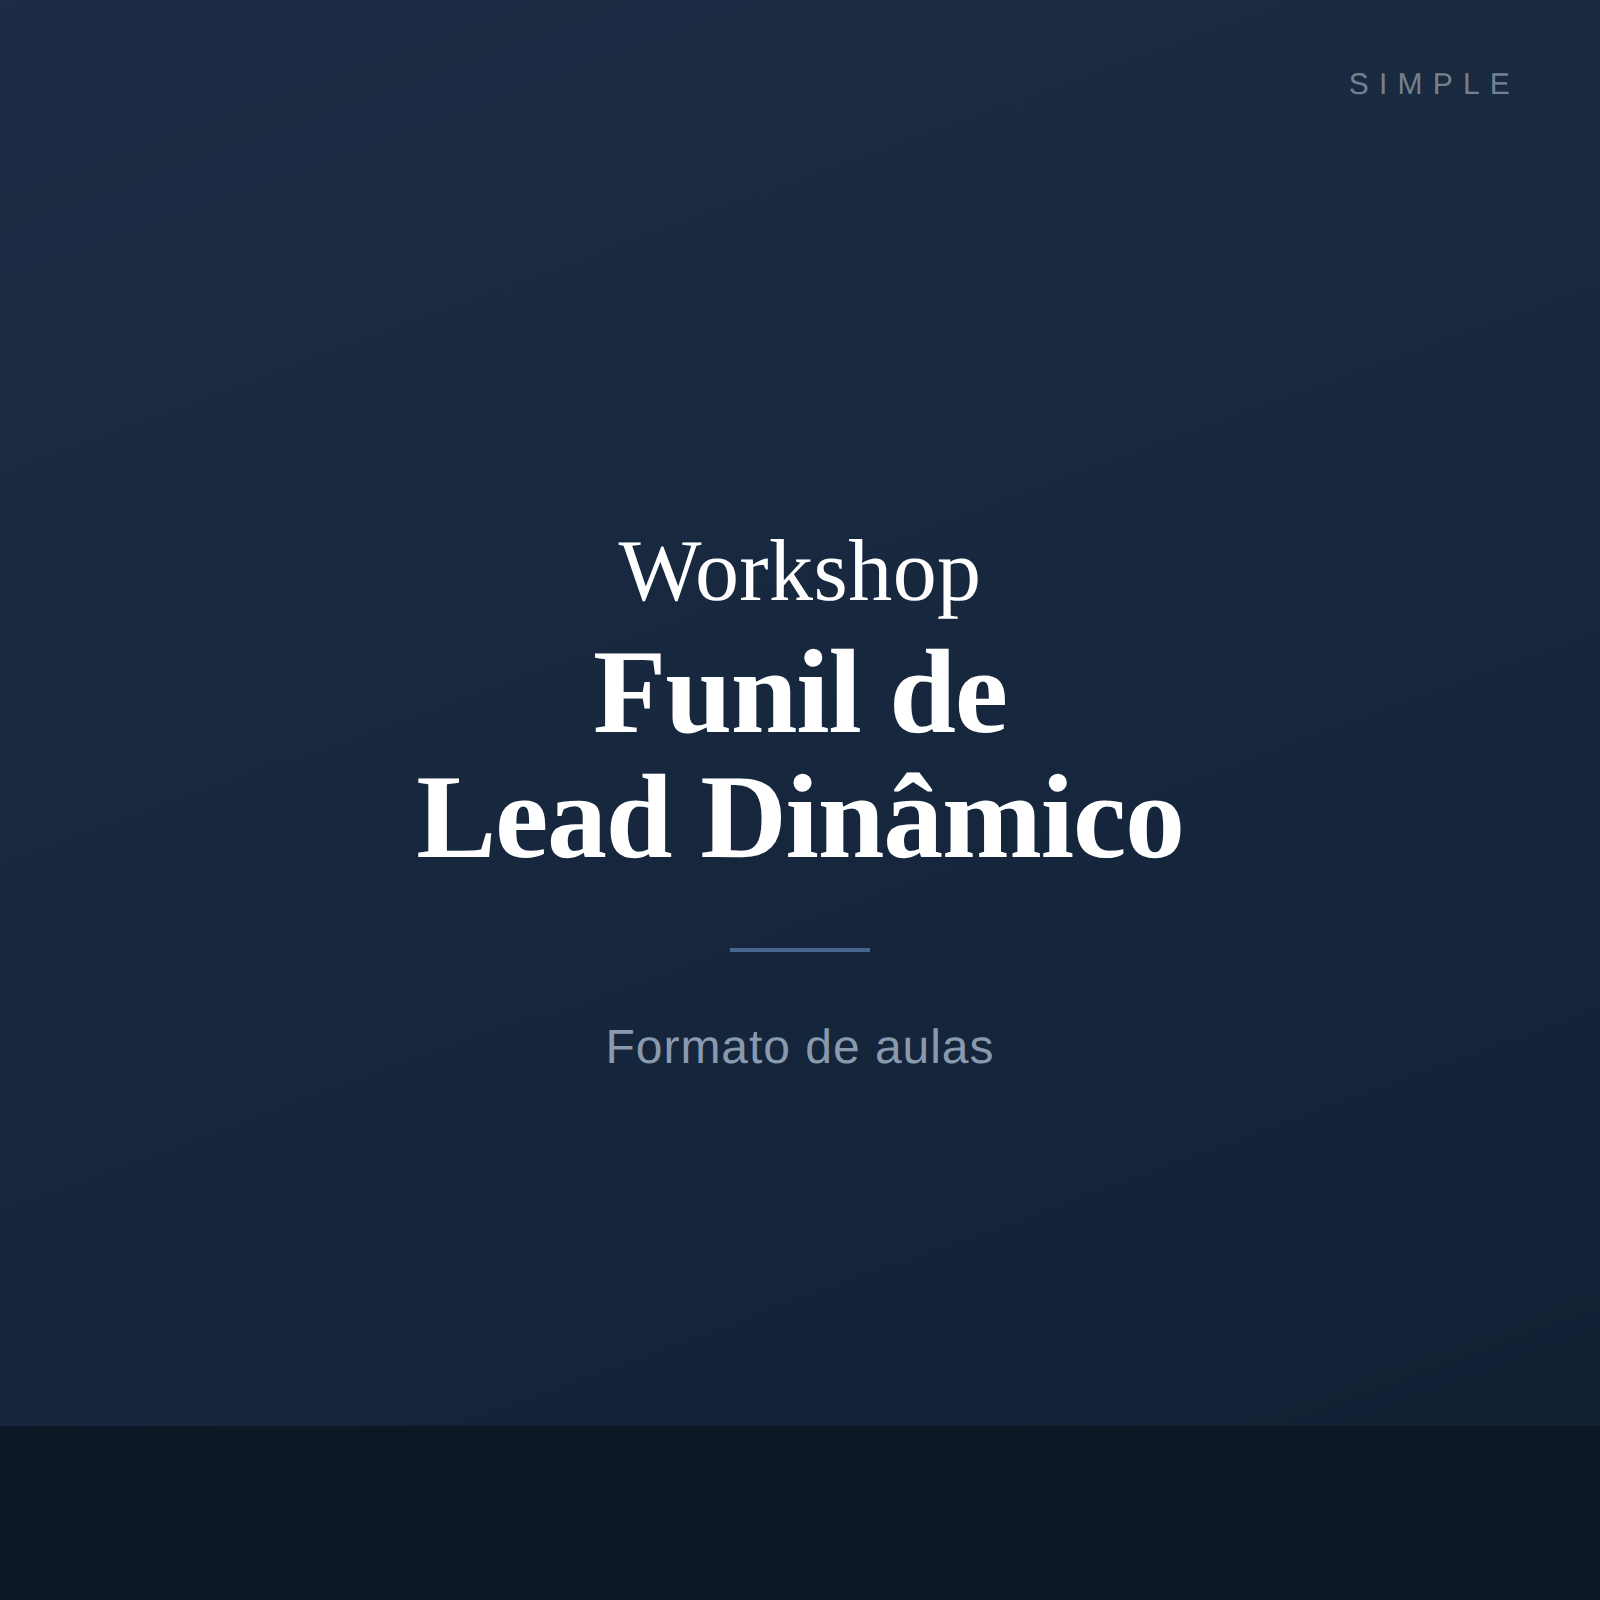
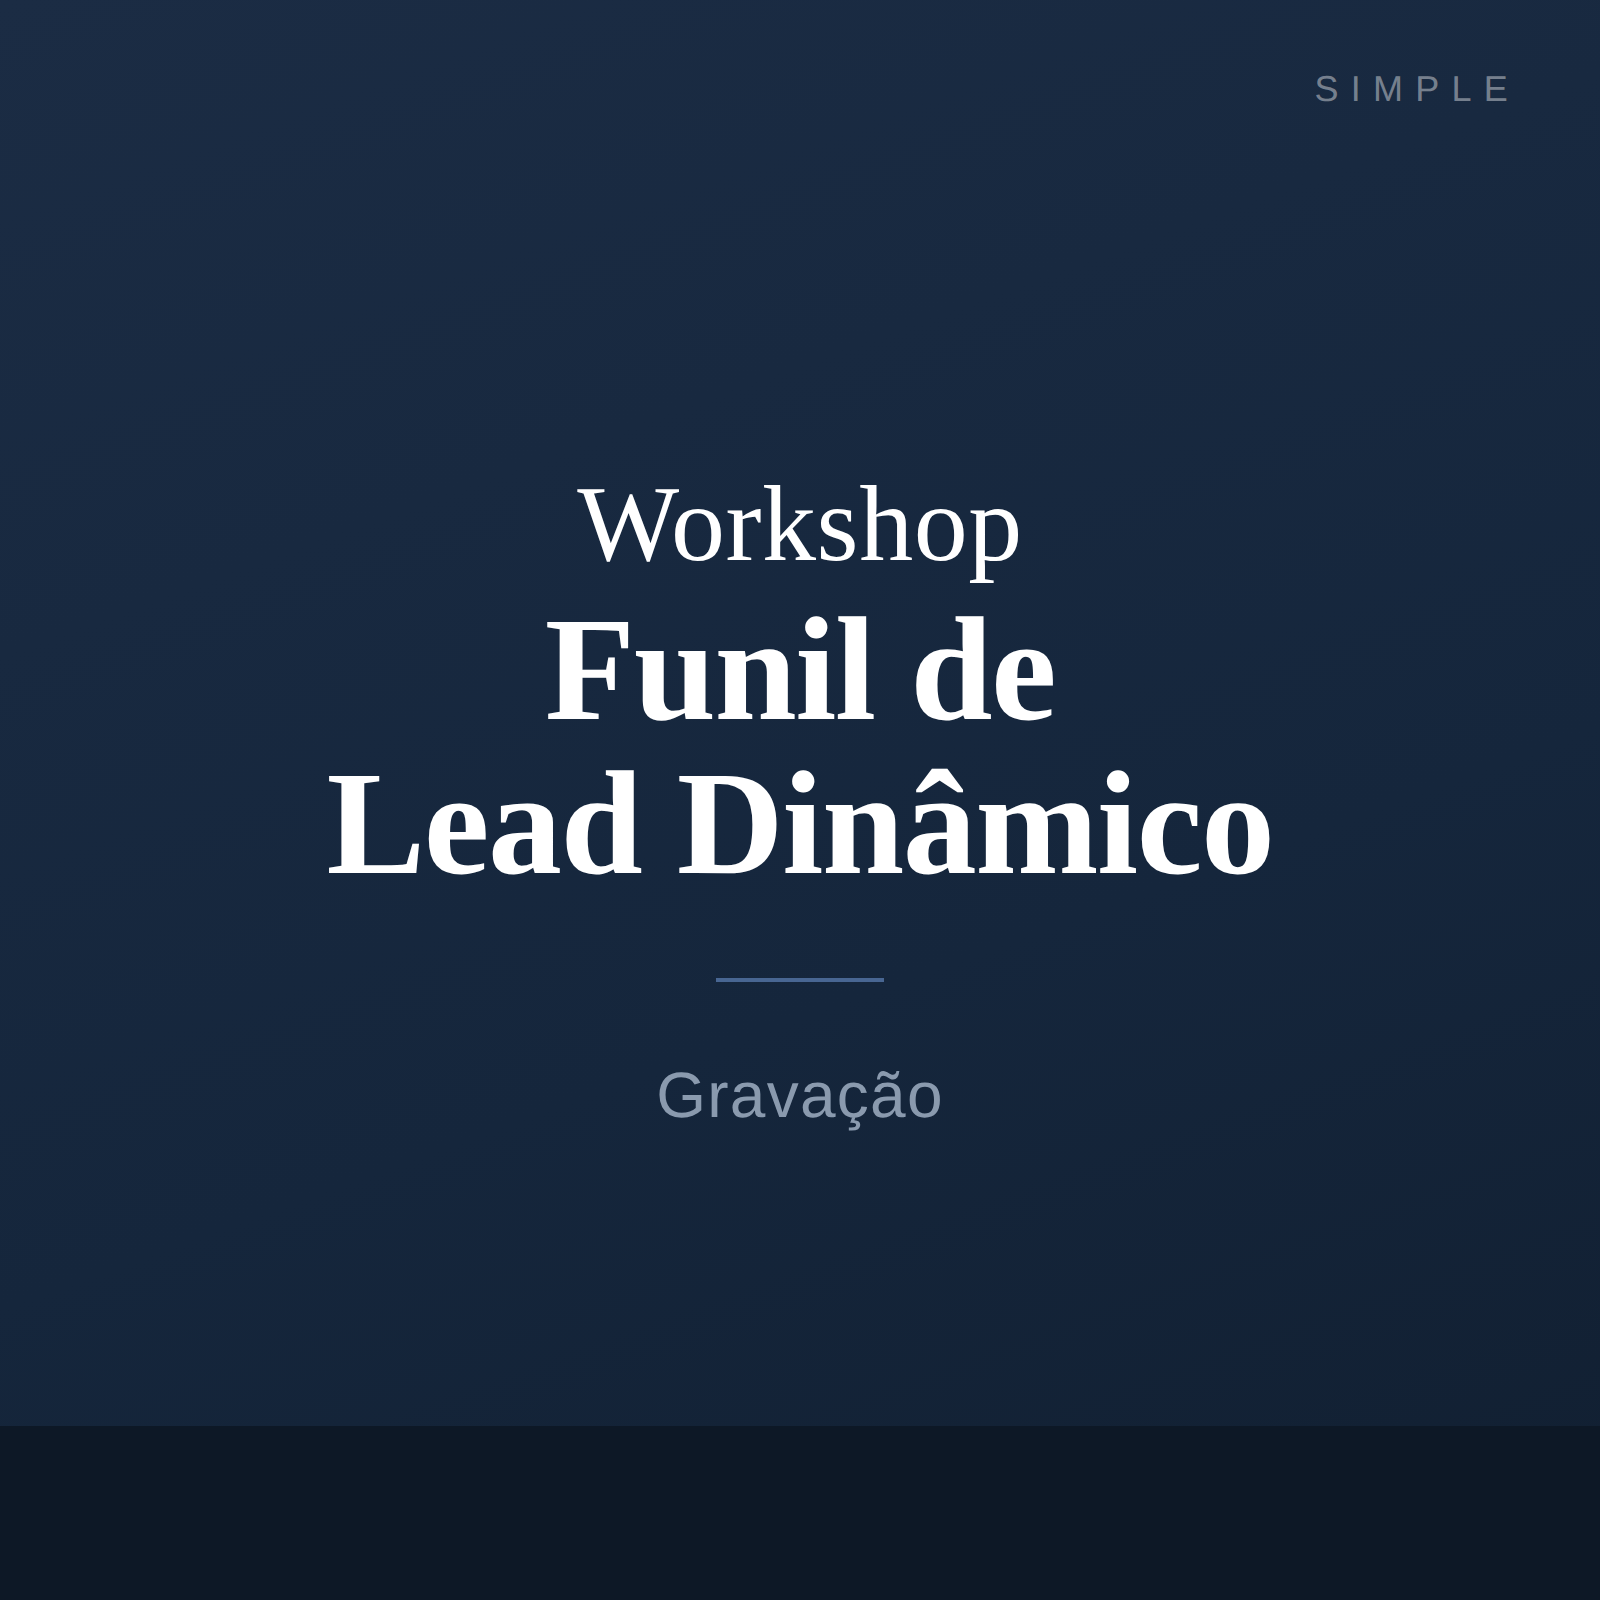
Ajusta thumb quadrado da gravacao: subtitulo 'Gravacao' e fontes maiores
Claude-Session: https://claude.ai/code/session_01DPUnmFig9fJaFztX9RVKds

Changed region(s): [[0.1875, 0.3125, 0.8125, 0.5625], [0.375, 0.5938, 0.625, 0.7188], [0.8438, 0.0312, 0.9375, 0.0625]]

diff --git a/clientes/0-interno-simpleacc-inova/lancamento-workshop-14-07/apostila/thumb-gravacao-quadrada.html b/clientes/0-interno-simpleacc-inova/lancamento-workshop-14-07/apostila/thumb-gravacao-quadrada.html
@@ -19,13 +19,13 @@
     text-align:center;padding:70px 64px;
   }
   .wm{position:absolute;top:34px;right:40px;font-family:var(--sans);
-    font-weight:300;letter-spacing:.34em;font-size:15px;color:rgba(255,255,255,.42);padding-left:.34em}
-  .kicker{font-size:44px;font-weight:400;letter-spacing:.005em;line-height:1.06}
-  .title{font-size:60px;font-weight:700;letter-spacing:-.01em;line-height:1.04;margin-top:6px}
-  .rule{width:70px;height:2px;background:var(--blue-lt);opacity:.7;margin:34px 0}
-  .sub{font-family:var(--sans);font-size:24px;font-weight:400;color:var(--steel);letter-spacing:.02em}
+    font-weight:300;letter-spacing:.34em;font-size:18px;color:rgba(255,255,255,.42);padding-left:.34em}
+  .kicker{font-size:54px;font-weight:400;letter-spacing:.005em;line-height:1.06}
+  .title{font-size:74px;font-weight:700;letter-spacing:-.01em;line-height:1.04;margin-top:6px}
+  .rule{width:84px;height:2px;background:var(--blue-lt);opacity:.7;margin:38px 0}
+  .sub{font-family:var(--sans);font-size:32px;font-weight:400;color:var(--steel);letter-spacing:.02em}
   .foot{position:absolute;bottom:34px;left:0;right:0;font-family:var(--sans);
-    font-size:14px;letter-spacing:.18em;text-transform:uppercase;color:rgba(255,255,255,.30)}
+    font-size:16px;letter-spacing:.18em;text-transform:uppercase;color:rgba(255,255,255,.30)}
 </style>
 </head>
 <body>
@@ -34,7 +34,7 @@
     <div class="kicker">Workshop</div>
     <div class="title">Funil de<br>Lead Dinâmico</div>
     <div class="rule"></div>
-    <div class="sub">Formato de aulas</div>
+    <div class="sub">Gravação</div>
     <div class="foot">simpleacc.com</div>
   </div>
 </body>